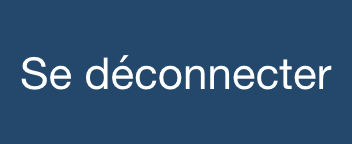
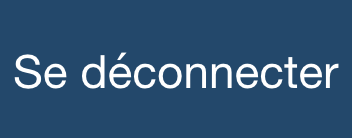
bouton monCompte seDésconnecter

Changed region(s): [[0.0312, 0.3768, 0.9688, 0.6667]]

diff --git a/src/style/style.css b/src/style/style.css
@@ -14,22 +14,26 @@
 .seConnecter2 img {
     position: absolute;
     top: 0%;
-    margin-left: 80%;
+    right: 30px;
+    /*margin-left: 80%;*/
+    width: 180px;
+    ;
+}
+.deconnecter img {
+    position: absolute;
+    top: 0%;
+    right: 30px;
+    /*margin-left: 80%;*/
     width: 180px;
     ;
 }
 
-/*.monCompte img {
+
+.monCompte img {
     position: absolute;
     top: 0%;
-    margin-left: 50%;
-    width: 180px;
-    ;
-}*/
-.deconnecter img {
-    position: absolute;
-    top: 100px;
-    margin-left: 80%;
+    right: 250px;
+    /*margin-left: 55%;*/
     width: 180px;
 }
 

diff --git a/src/view/vue_accueil.php b/src/view/vue_accueil.php
@@ -69,21 +69,21 @@
 
         if ($_SESSION["type"]=="utilisateur") {
             echo "
-                <div class=\"seConnecter2\">
+                <div class=\"monCompte\">
                     <a href=\"../view/vue_compte_user.php\"><img src=\"../image/monCompte.jpg\"/></a>
                 </div>
                 ";
 
         }else{
             echo "
-                <div class=\"seConnecter2\">
+                <div class=\"monCompte\">
                     <a href=\"../view/vue_compte_gest.php\"><img src=\"../image/monCompte.jpg\"/></a>
                 </div>
                 ";
         }
-        
+        // style=\"position: absolute; margin-left: 60%; height: 30px; width: 180px;
         echo "
-            <div class=\"deconnecter\" style=\"position: absolute; margin-left: 42%; height: 30px; width: 180px;\">
+            <div class=\"deconnecter\" \">
                 <a href=\"../controler/controleur_deconnexion.php\"><img src=\"../image/deconnecter.jpg\"/></a>
             </div>
         ";
